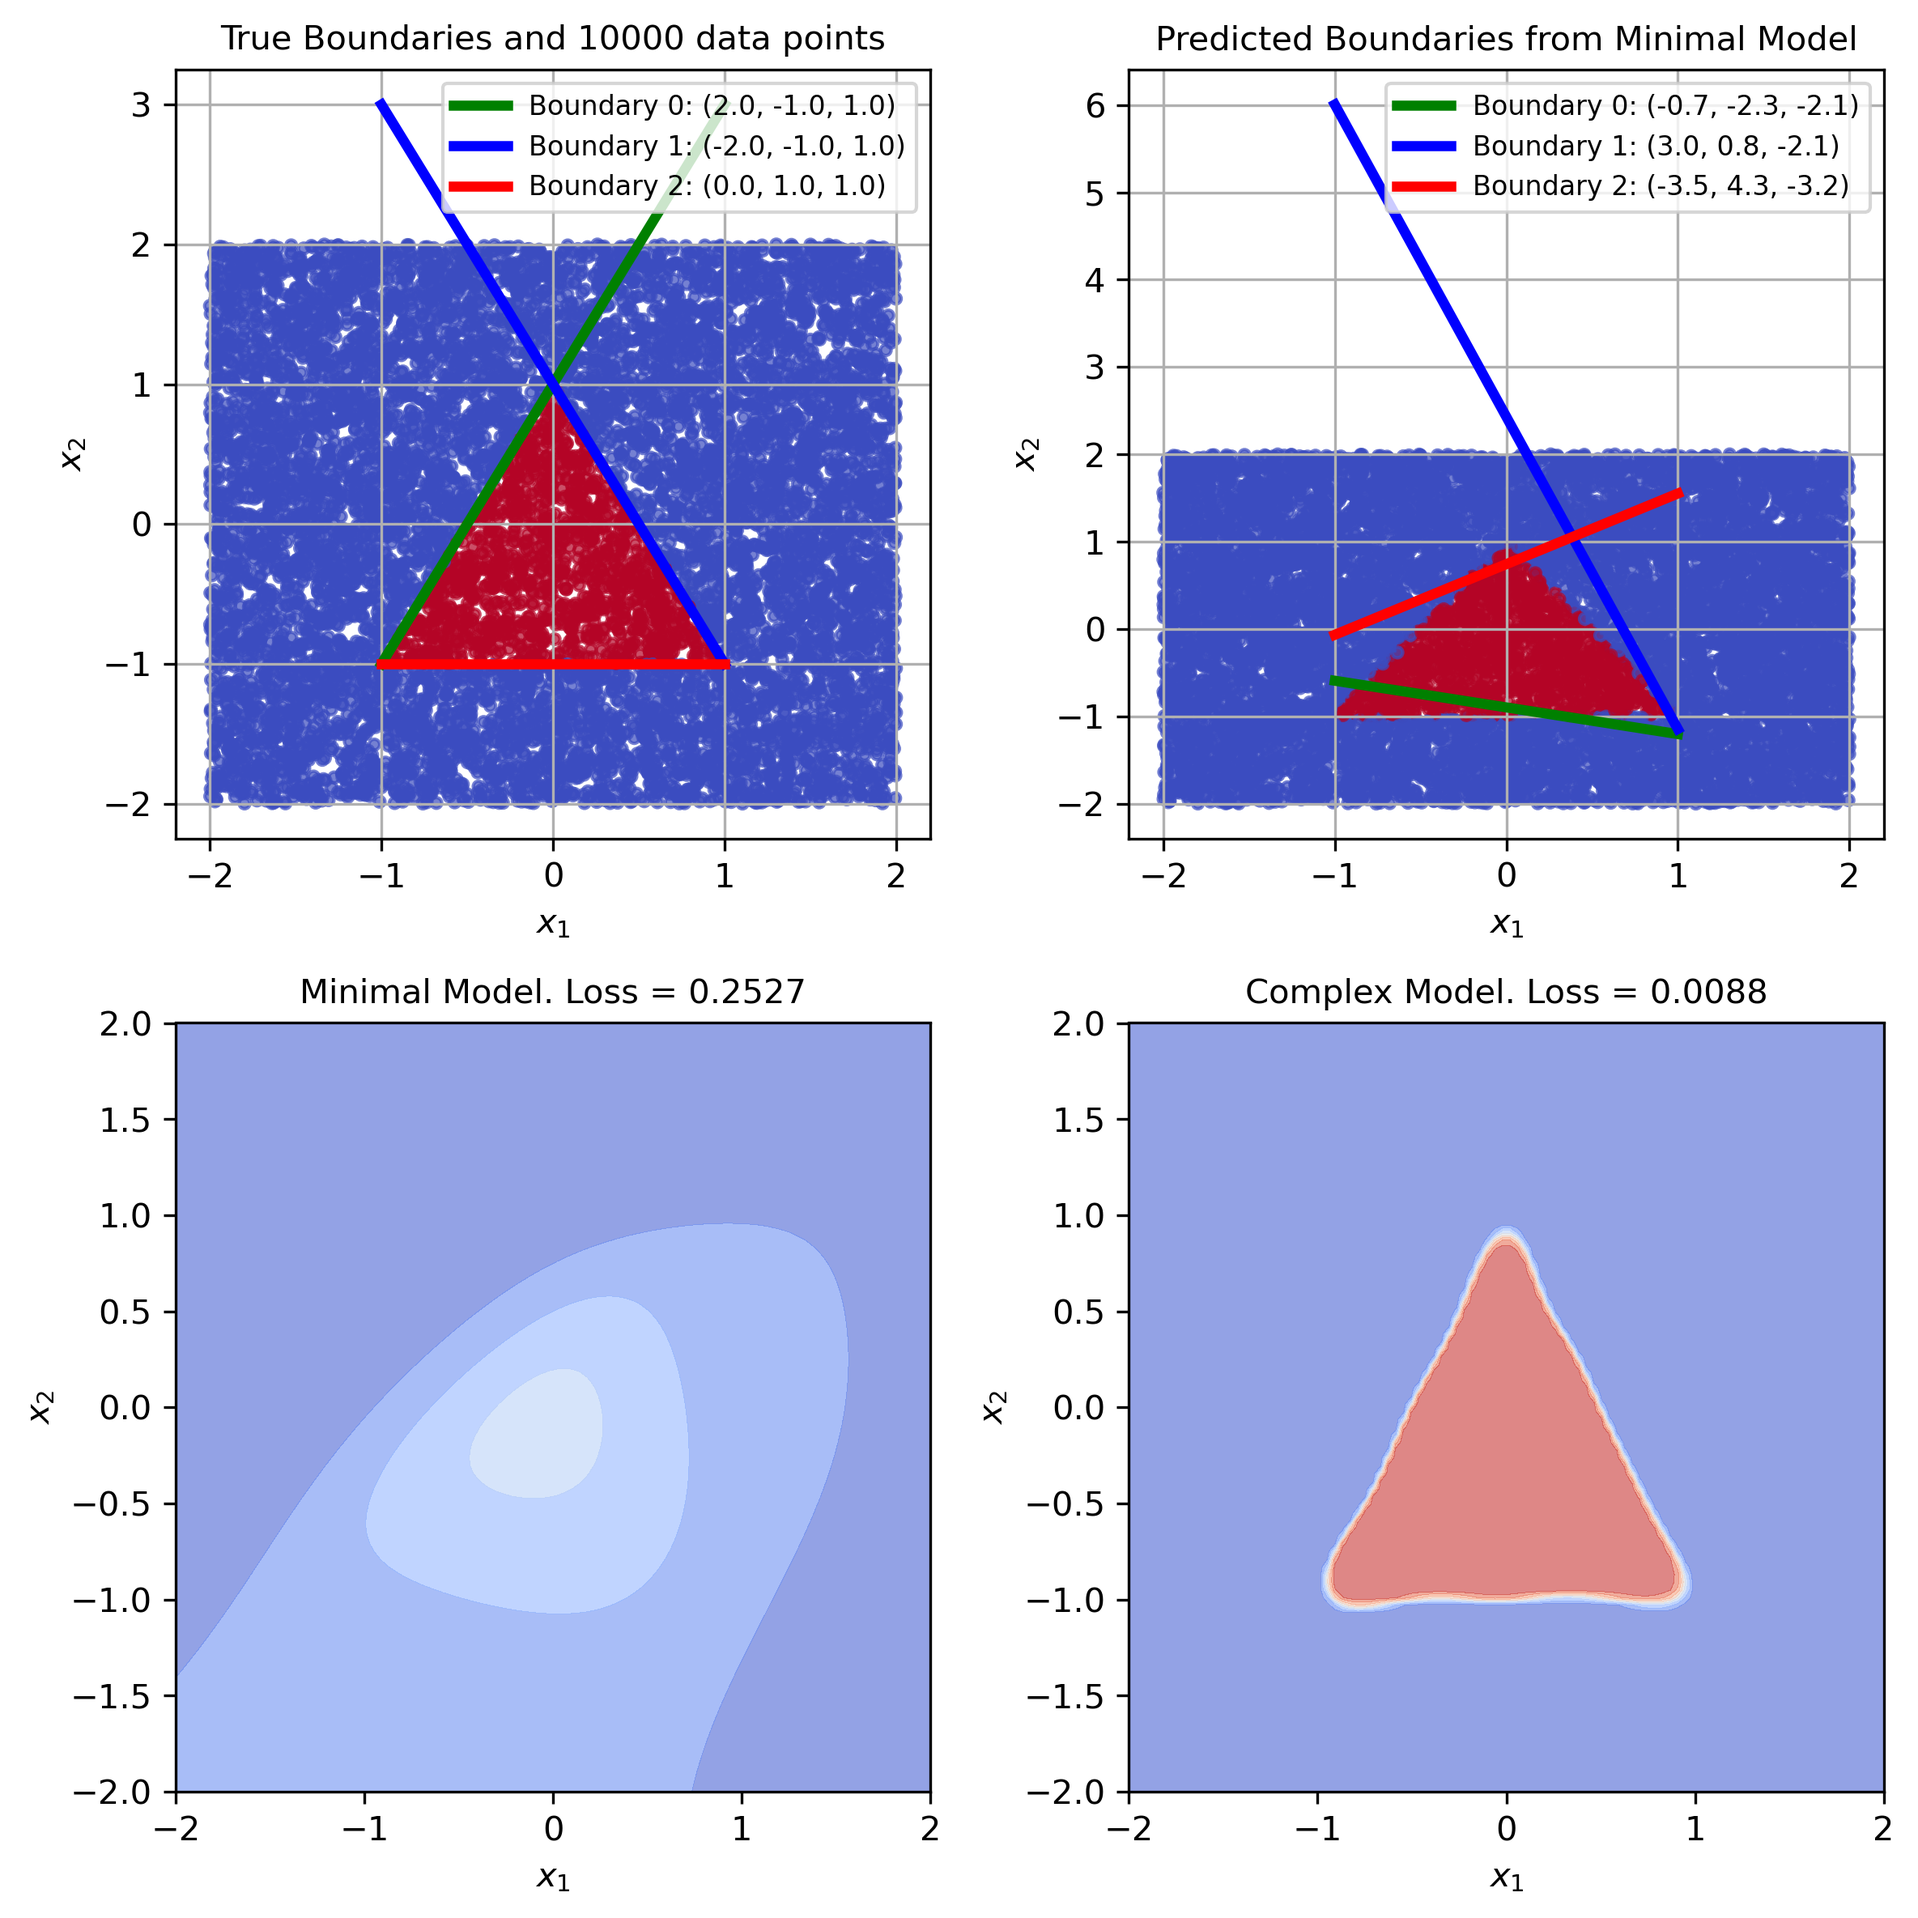
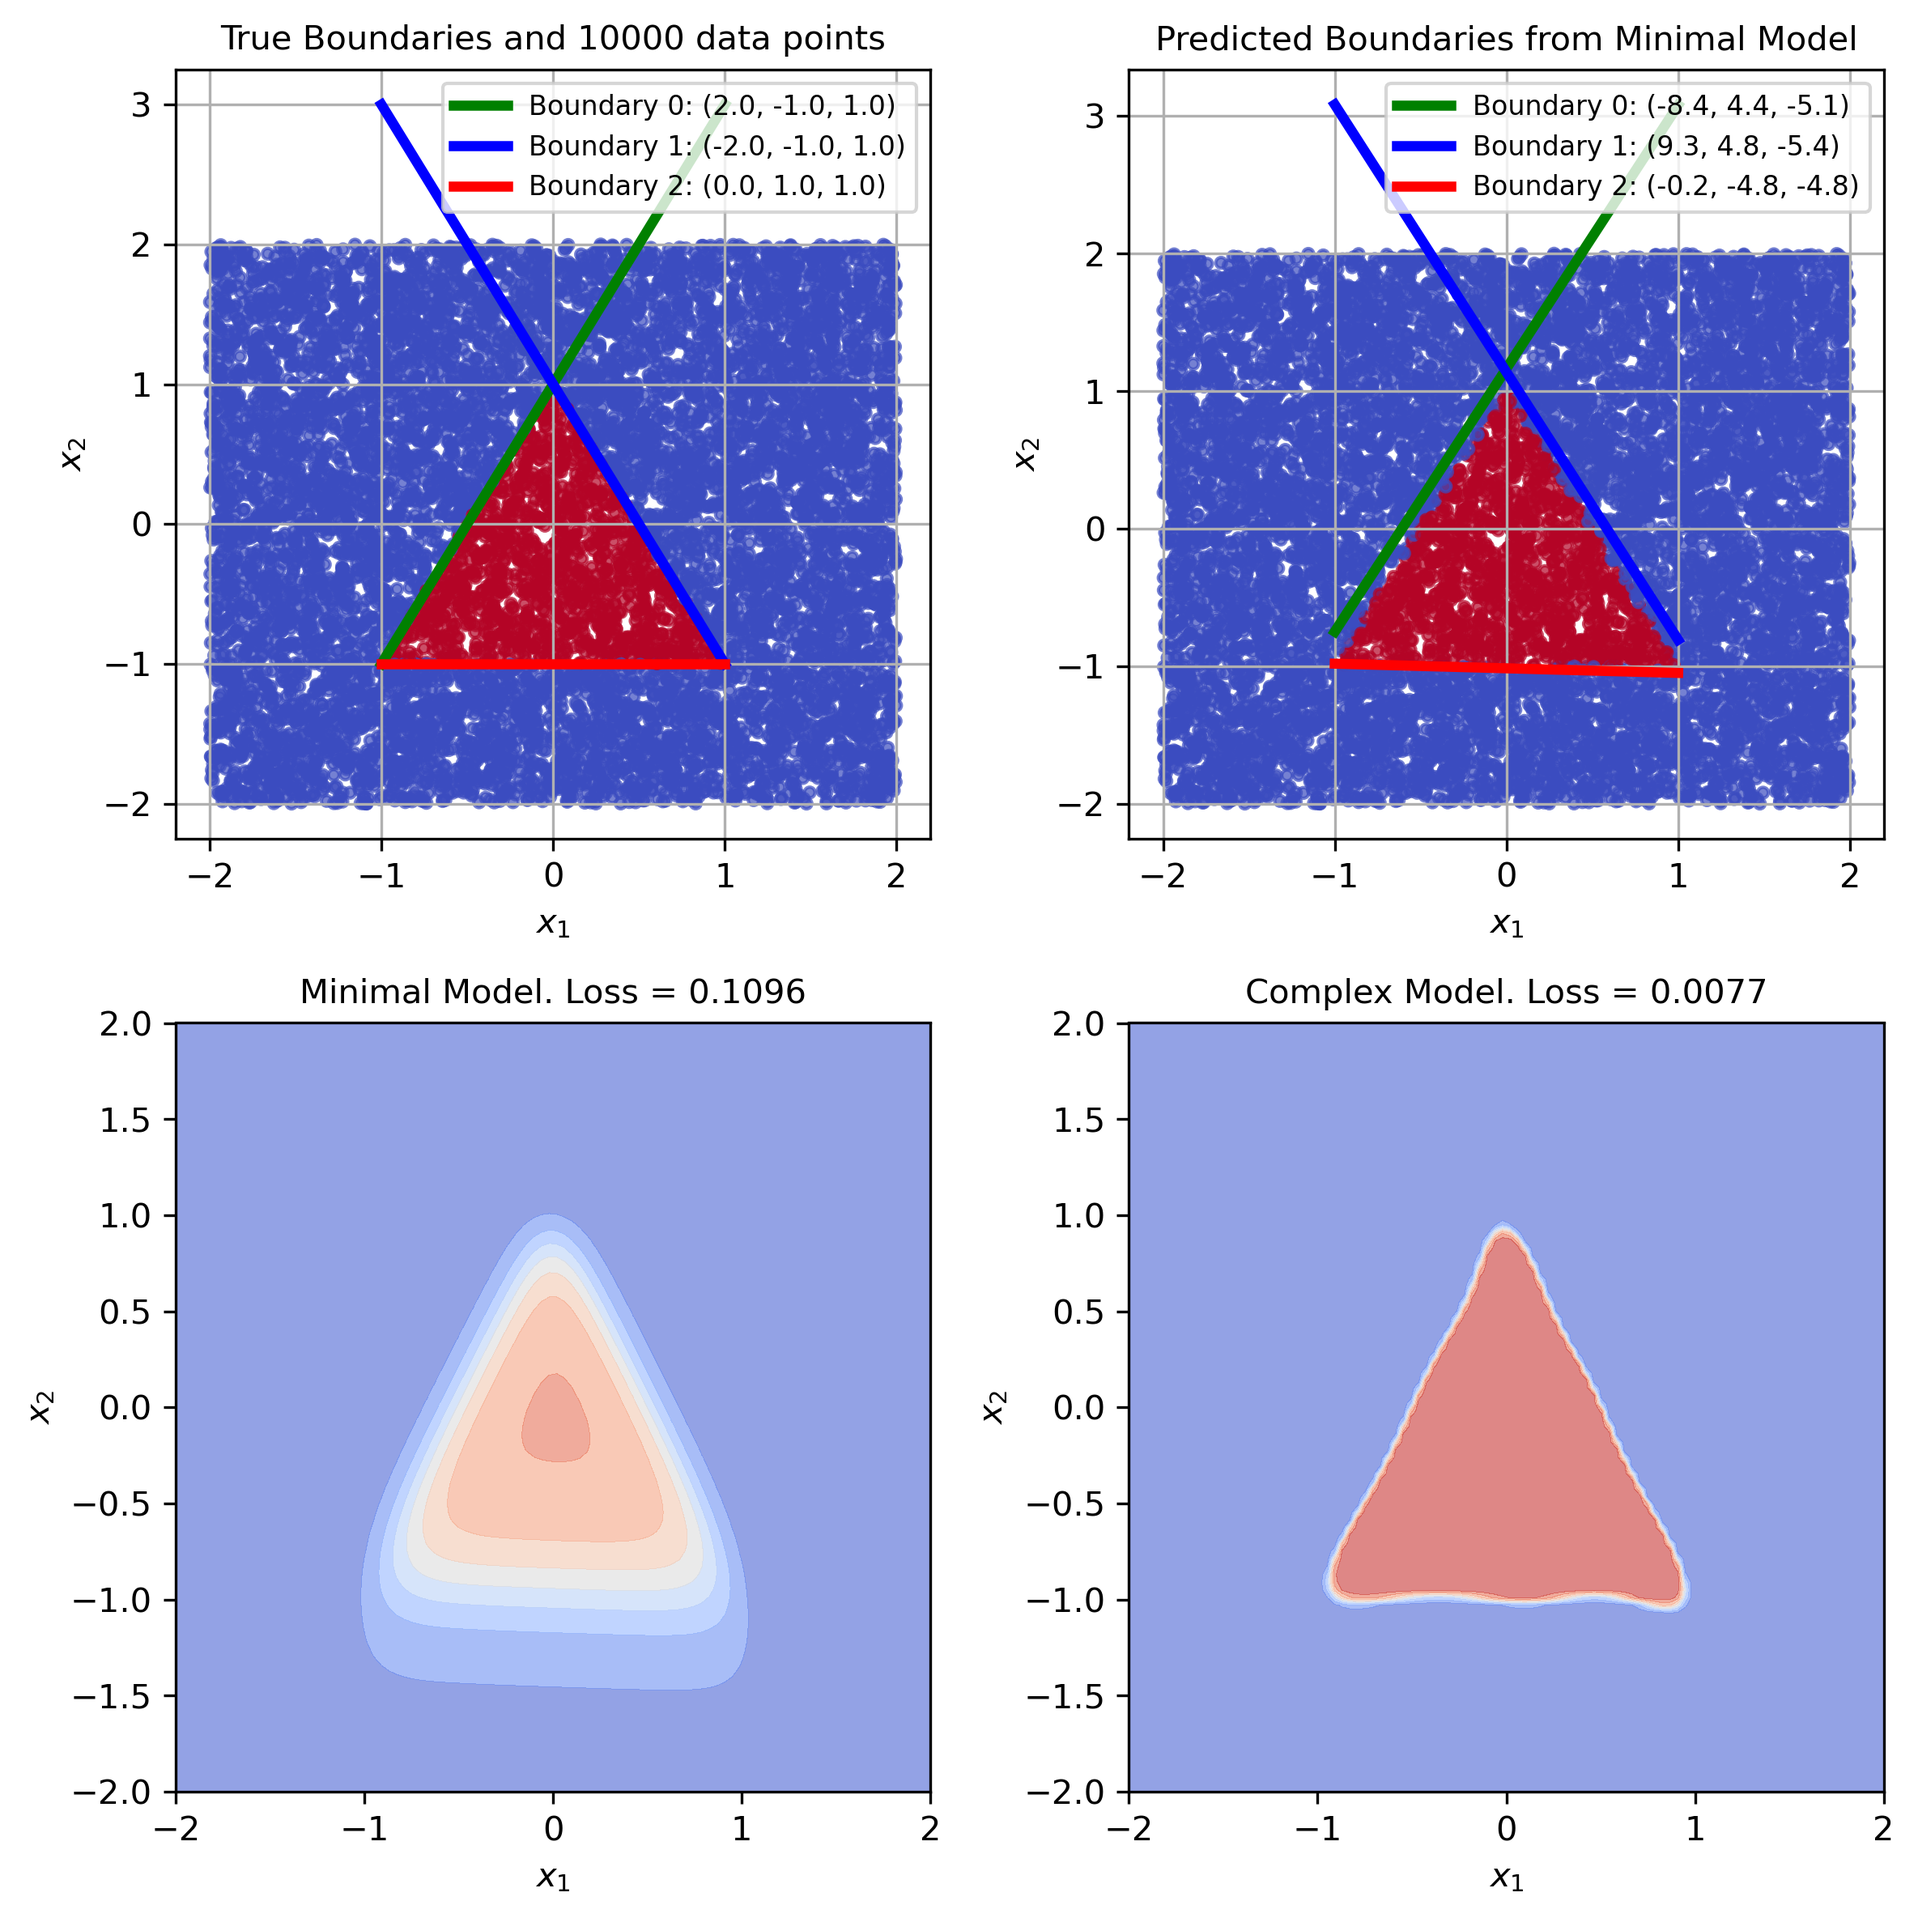
Publish: 2026-11-03 10:47:13

diff --git a/lectures/02_NeuralNetworks/00_Perceptron.html b/lectures/02_NeuralNetworks/00_Perceptron.html
@@ -7,7 +7,7 @@
 <meta name="viewport" content="width=device-width, initial-scale=1.0, user-scalable=yes">
 
 <meta name="author" content="Thomas Manke">
-<meta name="dcterms.date" content="2026-11-02">
+<meta name="dcterms.date" content="2026-11-03">
 <meta name="description" content="Brain Connections">
 
 <title>Perceptron – Neural Networks and Deep Learning</title>
@@ -427,7 +427,7 @@ window.Quarto = {
     <div>
     <div class="quarto-title-meta-heading">Published</div>
     <div class="quarto-title-meta-contents">
-      <p class="date">November 2, 2026</p>
+      <p class="date">November 3, 2026</p>
     </div>
   </div>
   
@@ -659,7 +659,7 @@ BUT
 <details class="code-fold">
 <summary>Code</summary>
 <div class="sourceCode cell-code" id="cb3"><pre class="sourceCode numberSource python number-lines code-with-copy"><code class="sourceCode python"><span id="cb3-1"><a href="#cb3-1"></a>device <span class="op">=</span> detect_device()</span>
-<span id="cb3-2"><a href="#cb3-2"></a>n_epochs <span class="op">=</span> <span class="dv">8000</span></span>
+<span id="cb3-2"><a href="#cb3-2"></a>n_epochs <span class="op">=</span> <span class="dv">9000</span></span>
 <span id="cb3-3"><a href="#cb3-3"></a>model <span class="op">=</span> MinimalModel().to(device)</span>
 <span id="cb3-4"><a href="#cb3-4"></a>X <span class="op">=</span> X.to(device)</span>
 <span id="cb3-5"><a href="#cb3-5"></a>labels <span class="op">=</span> labels.to(device)</span>
@@ -674,8 +674,8 @@ BUT
 <span id="cb3-14"><a href="#cb3-14"></a>complex_model, complex_loss <span class="op">=</span> train_model(model, X, labels, n_epochs<span class="op">=</span>n_epochs, lr<span class="op">=</span><span class="fl">0.001</span>) </span></code><button title="Copy to Clipboard" class="code-copy-button"><i class="bi"></i></button></pre></div>
 </details>
 <div class="cell-output cell-output-stdout">
-<pre><code>Epoch [8000/8000], Loss: 0.2527
-Epoch [8000/8000], Loss: 0.0088</code></pre>
+<pre><code>Epoch [9000/9000], Loss: 0.1096
+Epoch [9000/9000], Loss: 0.0077</code></pre>
 </div>
 </div>
 <div id="cell-plot" class="cell" data-execution_count="4">
@@ -1419,7 +1419,7 @@ Universal Approximation Theorem
 <span id="cb6-193"><a href="#cb6-193"></a><span class="co">#| code-fold: true</span></span>
 <span id="cb6-194"><a href="#cb6-194"></a></span>
 <span id="cb6-195"><a href="#cb6-195"></a>device <span class="op">=</span> detect_device()</span>
-<span id="cb6-196"><a href="#cb6-196"></a>n_epochs <span class="op">=</span> <span class="dv">8000</span></span>
+<span id="cb6-196"><a href="#cb6-196"></a>n_epochs <span class="op">=</span> <span class="dv">9000</span></span>
 <span id="cb6-197"><a href="#cb6-197"></a>model <span class="op">=</span> MinimalModel().to(device)</span>
 <span id="cb6-198"><a href="#cb6-198"></a>X <span class="op">=</span> X.to(device)</span>
 <span id="cb6-199"><a href="#cb6-199"></a>labels <span class="op">=</span> labels.to(device)</span>

diff --git a/lectures/02_NeuralNetworks/index.html b/lectures/02_NeuralNetworks/index.html
@@ -478,7 +478,7 @@ window.Quarto = {
     </div>
 </div>
 <div class="list grid quarto-listing-cols-3">
-<div class="g-col-1" data-index="0" data-categories="cGVyY2VwdHJvbiUyQ2RlY2lzaW9uJTIwYm91bmRhcmllcyUyQ25ldXJvbg==" data-listing-date-sort="1793640609000" data-listing-file-modified-sort="1793640609365" data-listing-date-modified-sort="NaN" data-listing-reading-time-sort="5" data-listing-word-count-sort="955">
+<div class="g-col-1" data-index="0" data-categories="cGVyY2VwdHJvbiUyQ2RlY2lzaW9uJTIwYm91bmRhcmllcyUyQ25ldXJvbg==" data-listing-date-sort="1793702600000" data-listing-file-modified-sort="1793702600117" data-listing-date-modified-sort="NaN" data-listing-reading-time-sort="5" data-listing-word-count-sort="955">
 <a href="../../lectures/02_NeuralNetworks/00_Perceptron.html" class="quarto-grid-link">
 <div class="quarto-grid-item card h-100 card-left">
 <p class="card-img-top">
@@ -505,7 +505,7 @@ Perceptron
 Thomas Manke
 </div>
 <div class="listing-date">
-Nov 2, 2026
+Nov 3, 2026
 </div>
 </div>
 </div>
